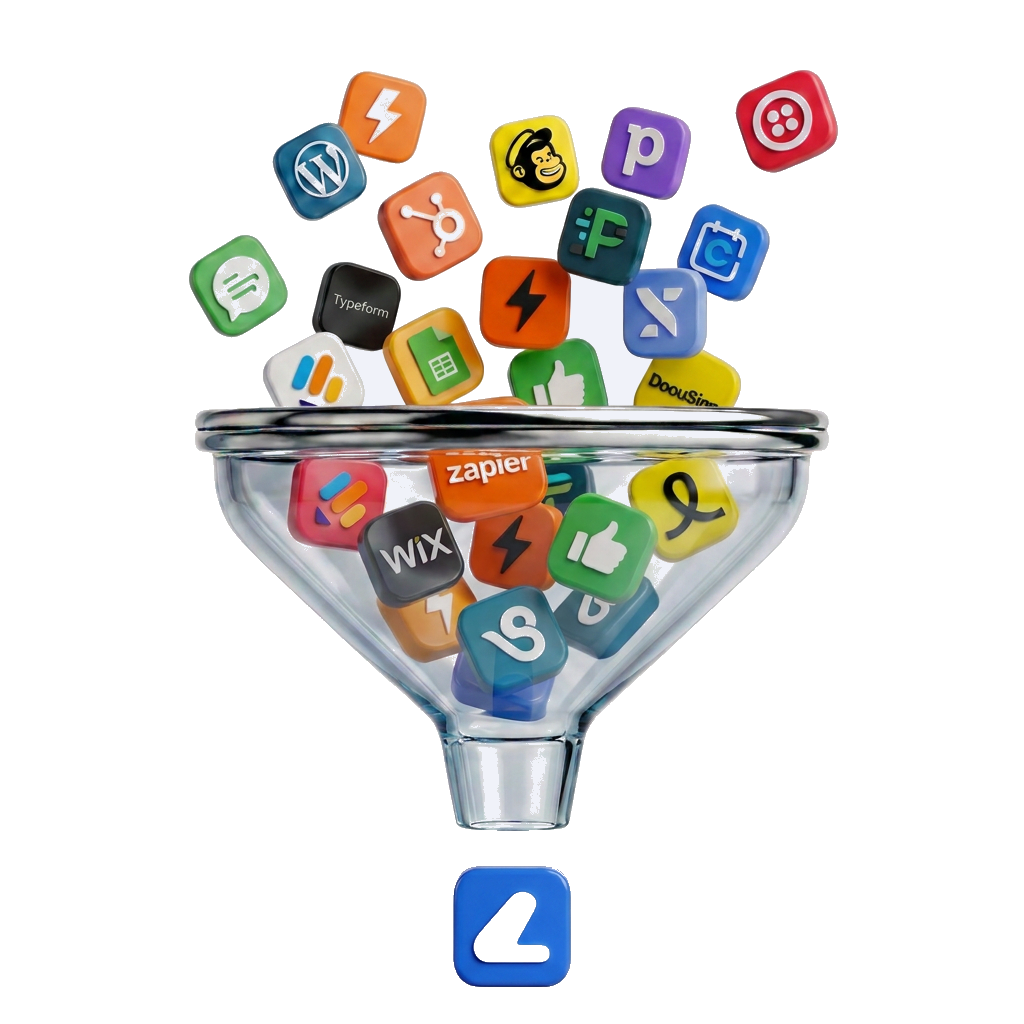
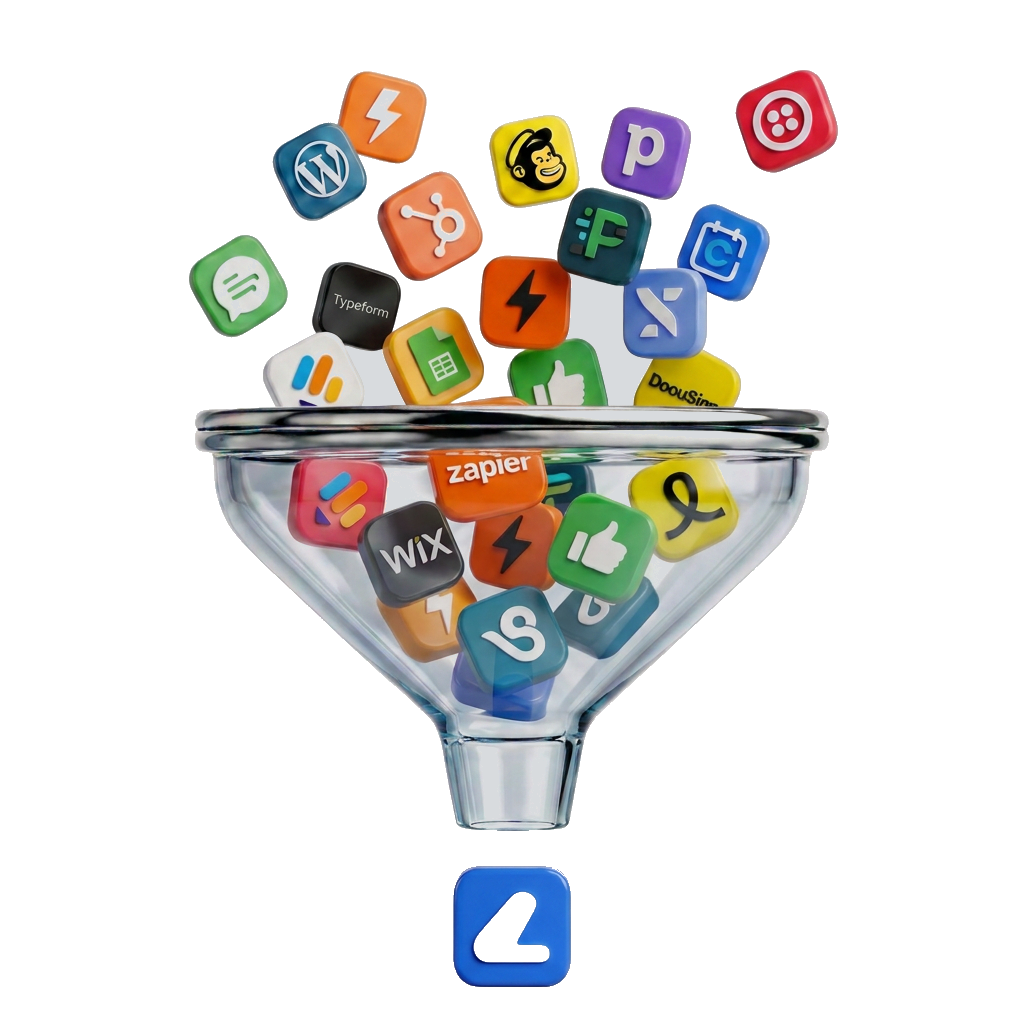
Changes

diff --git a/.lovable/plan.md b/.lovable/plan.md
@@ -1,14 +1,14 @@
 ## Problem
-The last AI image edit flattened the funnel image’s transparent background to white while changing the Zapla logo fill. We need to undo that and apply only the logo color change with pixel-precision.
+The transparent gaps inside the funnel were filled with a soft glass tint `rgba(232,236,246,170)`, but that tone reads slightly whiter/cooler than the page background `#EEF0FB` and the surrounding glass, so the patched areas are visibly a different shade from the environment.
 
-## Plan
-1. Inspect the current funnel asset (`src/assets/zapla-funnel-16-apps-final.png`) to confirm background state and locate the Zapla logo region.
-2. Use Python/PIL to:
-   - Restore full alpha transparency on all non-logo pixels.
-   - Identify the Zapla logo mark at the bottom of the funnel.
-   - Fill only the inner shape of that mark with white (`#FFFFFF`), leaving the outer blue square and every other pixel unchanged.
-3. Save the result back to the same file path, preserving the original resolution and color profile.
-4. Verify in the preview that the background is transparent and the Zapla logo inner mark is white.
+## Fix
+Re-tint only the previously patched pixels so they blend into the funnel's real glass — no other pixels touched, transparency of the true outside preserved.
 
-## Outcome
-A transparent-background funnel image with a white-filled Zapla logo and no other changes.
+1. Re-open `src/assets/zapla-funnel-16-apps-final.png`.
+2. Identify the patched pixels (they are the only pixels with the exact fill color `(232,236,246,170)` — unique in the image).
+3. Sample the average color of the nearby real glass interior (a ring of pixels just inside the funnel rim that were never patched) to get the true ambient glass tone.
+4. Replace the patched pixels with that sampled tone at a low alpha (~120–150) so the page's lavender shows through consistently, matching the rest of the funnel interior.
+5. No changes to icons, funnel rim, Zapla logo, or the transparent outside area.
+
+## Verify
+Composite the updated PNG onto the page's `#EEF0FB` background in a temp file and visually inspect that the patched regions are indistinguishable from the surrounding glass before handing back.
